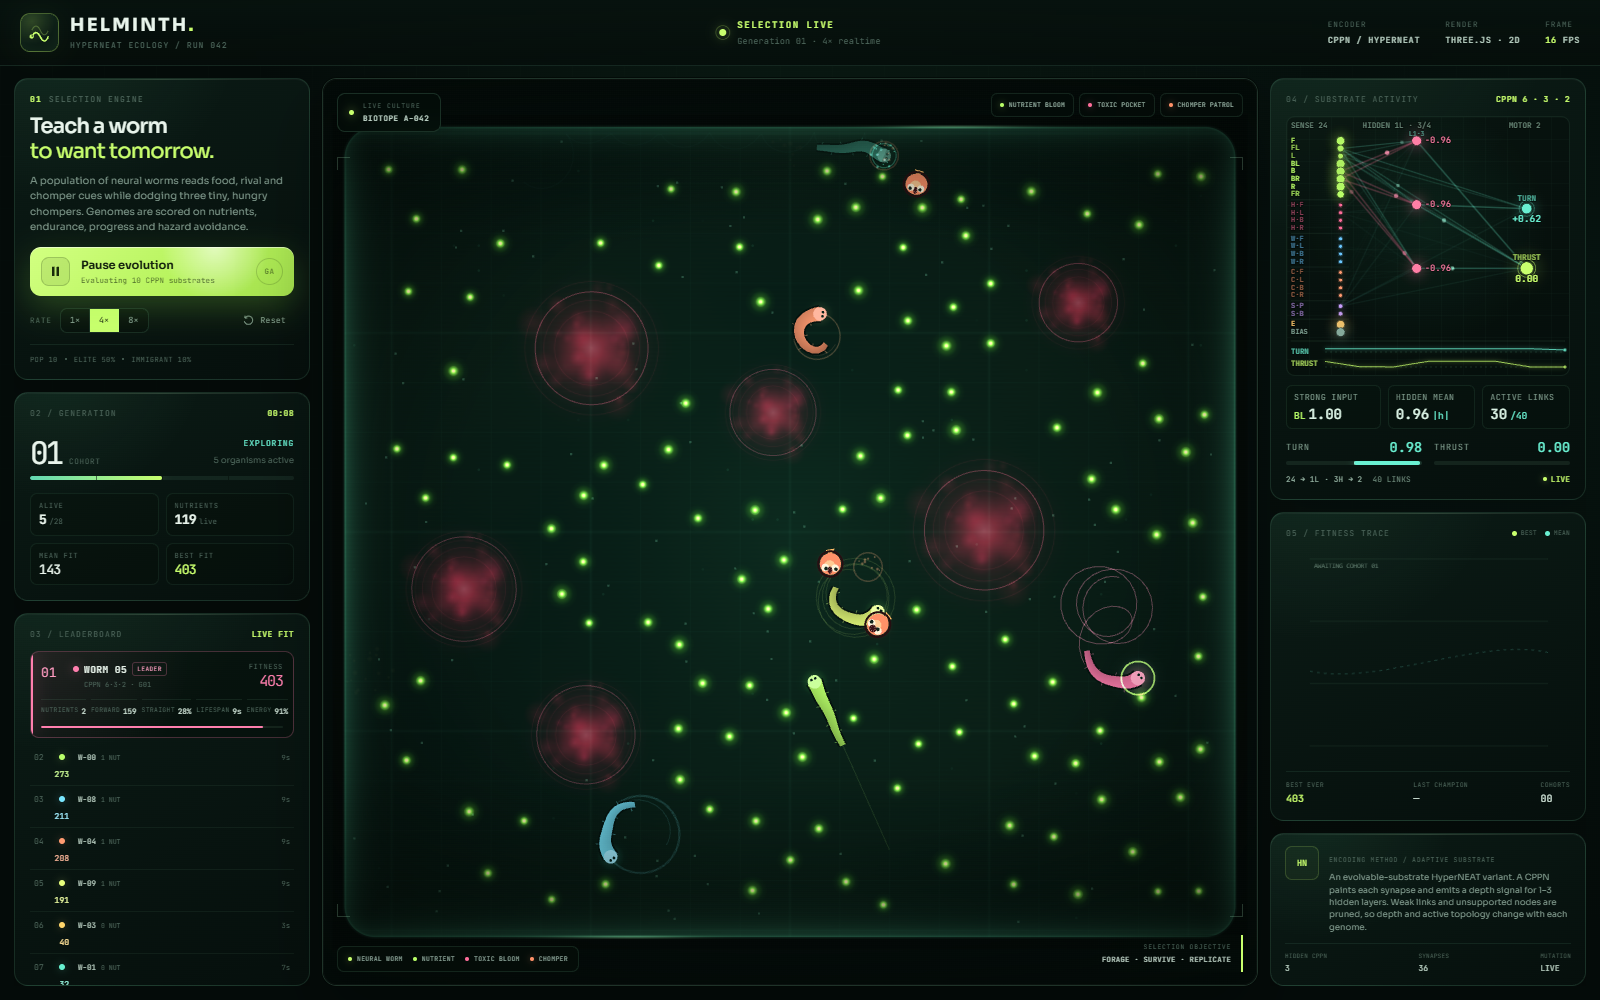
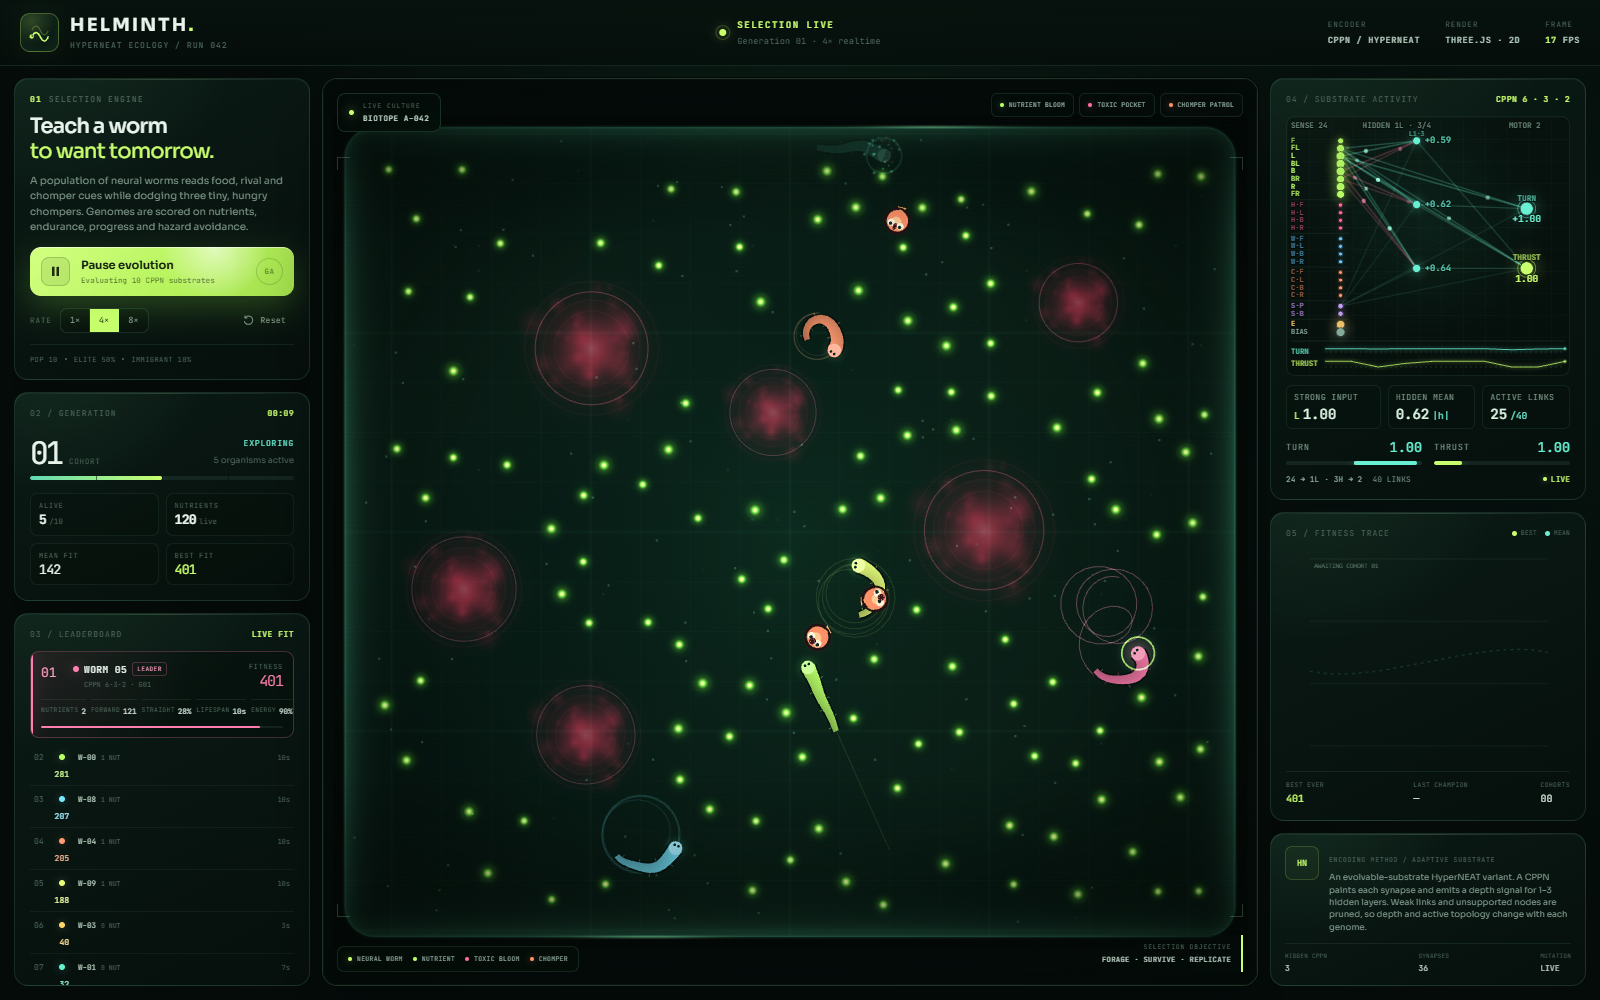
Bind population counts to live config and refresh screenshots

diff --git a/src/ui/dashboard.js b/src/ui/dashboard.js
@@ -106,6 +106,8 @@ export class Dashboard {
     this.thrustValue = document.getElementById('thrustValue');
     this.turnFill = document.getElementById('turnFill');
     this.thrustFill = document.getElementById('thrustFill');
+    this.aliveTotal = document.getElementById('aliveTotal');
+    this.idlePopulation = document.getElementById('idlePopulation');
 
     this.brainCanvas = document.getElementById('brainCanvas');
     this.brainContext = this.brainCanvas.getContext('2d');
@@ -188,6 +190,10 @@ export class Dashboard {
       this.startButton.setAttribute('aria-label', 'Start evolution');
       this.setText(this.phaseLabel, 'PRE-FLIGHT');
       this.setText(this.phaseDetail, `${evolution.agents.length} substrates constructed`);
+      this.setText(
+        this.idlePopulation,
+        `${evolution.agents.length} sensory worms. Three tiny chompers.`,
+      );
     } else if (intermission) {
       this.setText(this.runStatus, running ? 'COHORT SCORED' : 'SELECTION ON HOLD');
       this.setText(
@@ -238,7 +244,9 @@ export class Dashboard {
       evolution.agents.reduce((total, agent) => total + agent.worm.fitness, 0) /
       Math.max(1, evolution.agents.length);
     const currentBest = evolution.ranking[0]?.worm.fitness ?? 0;
+    const population = evolution.agents.length;
     this.setText(this.aliveCount, String(alive));
+    this.setText(this.aliveTotal, `/${population}`);
     this.setText(this.foodCount, String(evolution.ecology.activeFoodCount()));
     this.setText(this.avgFit, formatInteger(intermission ? evolution.lastSummary?.average : average));
     this.setText(

diff --git a/index.html b/index.html
@@ -137,7 +137,7 @@
               </div>
               <div class="phase-copy">
                 <span id="phaseLabel">PRE-FLIGHT</span>
-                <p id="phaseDetail">28 substrates constructed</p>
+                <p id="phaseDetail">10 substrates constructed</p>
               </div>
             </div>
             <div class="progress-track" aria-hidden="true">
@@ -147,11 +147,11 @@
             <div class="stat-grid">
               <div class="stat">
                 <span>ALIVE</span>
-                <strong><b id="aliveCount" data-testid="alive">28</b><small>/28</small></strong>
+                <strong><b id="aliveCount" data-testid="alive">10</b><small id="aliveTotal">/10</small></strong>
               </div>
               <div class="stat">
                 <span>NUTRIENTS</span>
-                <strong><b id="foodCount" data-testid="food">40</b><small>live</small></strong>
+                <strong><b id="foodCount" data-testid="food">120</b><small>live</small></strong>
               </div>
               <div class="stat">
                 <span>MEAN FIT</span>
@@ -219,7 +219,7 @@
 
             <div class="idle-prompt" id="idlePrompt">
               <span>SIMULATION READY</span>
-              <strong>28 sensory worms. Three tiny chompers.</strong>
+              <strong id="idlePopulation">10 sensory worms. Three tiny chompers.</strong>
               <p>Press start to see which nervous systems can out-forage and out-swim.</p>
             </div>
 
